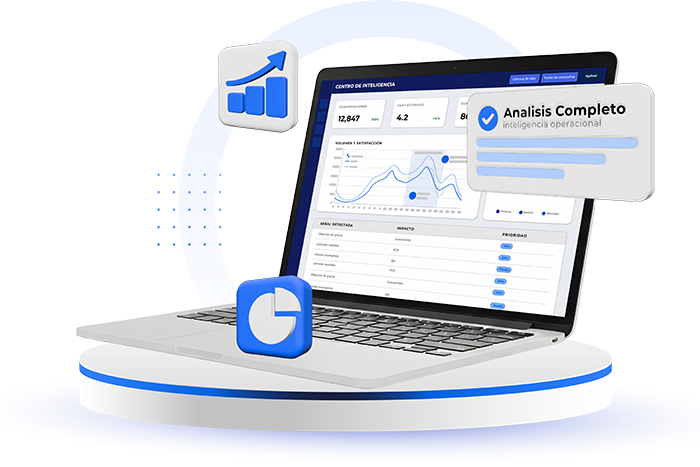
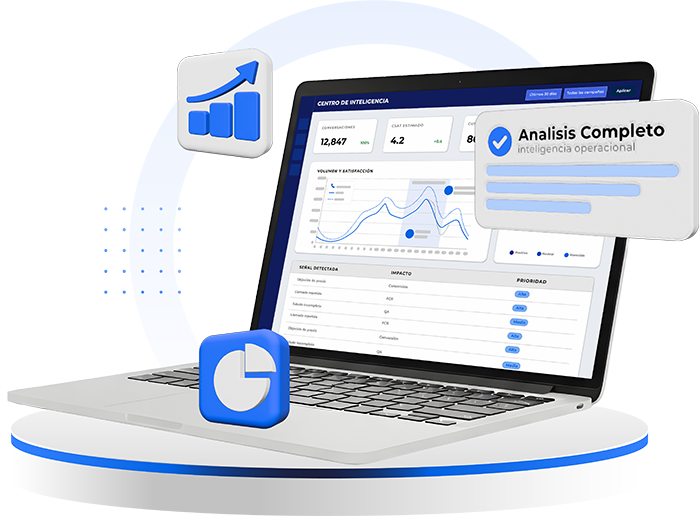
Omnivision

diff --git a/OmniVision.html b/OmniVision.html
@@ -2167,7 +2167,7 @@
         <!-- Columna Derecha: Imagen -->
         <div class="w-full flex justify-center lg:justify-end">
           <img
-            src="https://github.com/Lucaro99/Pagina-Soporte/blob/main/Assets/Dash_Omnivision_2.png?raw=true"
+            src="https://github.com/Lucaro99/Pagina-Soporte/blob/main/Assets/Composici%C3%B3n%20Omni%20Vision.png?raw=true"
             alt="Análisis de conversaciones Five9"
             class="w-full max-w-lg h-auto rounded-xl object-cover shadow-2xl"
           />
